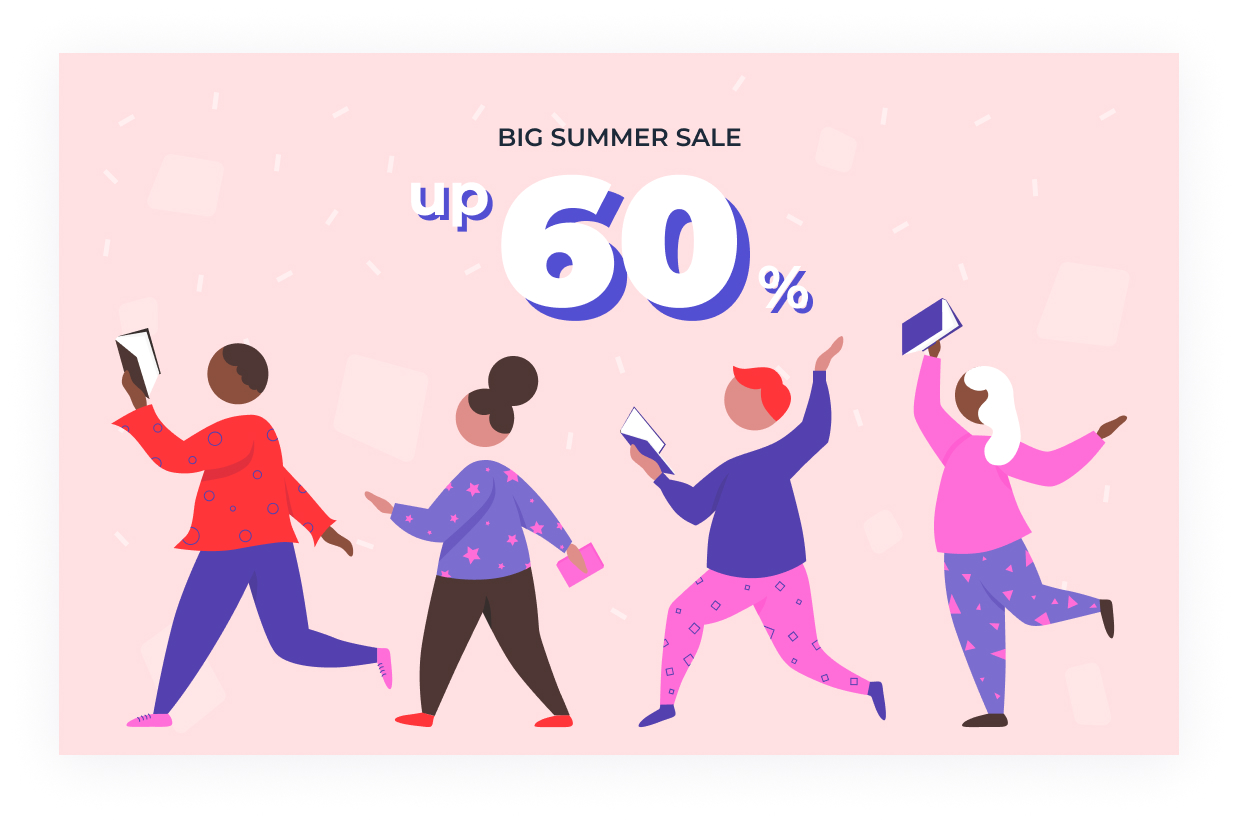
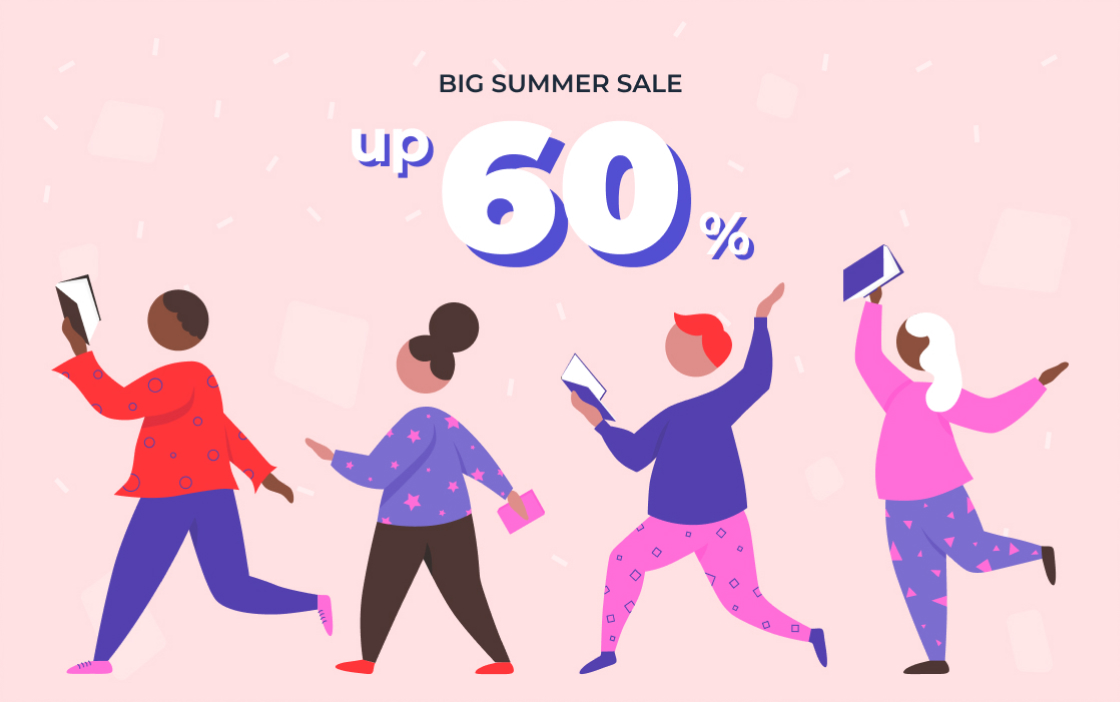
Fix hero section

diff --git a/index.html b/index.html
@@ -59,21 +59,27 @@
     <main class="hero">
       <!-- Hero container -->
       <div class="hero-container">
-        <!-- Hero image -->
-        <div class="hero-image">
-          <img src="img/banner.jpg" alt="big summer sale up to 60%" />
-        </div>
+        <div class="position">
+          <!-- Hero image -->
+          <div class="hero-image">
+            <a href="#"
+              ><img src="img/banner.jpg" alt="big summer sale up to 60%"
+            /></a>
+          </div>
 
-        <!-- Promotion card 1 -->
-        <div class="card-1">
-          <h3>Chnage old book on new</h3>
-          <img src="img/arrow.svg" alt="arrow" />
+          <!-- Promotion card 1 -->
+          <div class="card-1">
+            <a href="#"
+              ><img src="img/promo-card-1.png" alt="change old book on new"
+            /></a>
+          </div>
         </div>
 
         <!-- Promotion card 2 -->
         <div class="card-2">
-          <h3>Top 100 books 2019</h3>
-          <img src="img/arrow.svg" alt="arrow" />
+          <a href="#"
+            ><img src="img/promo-card-2.png" alt="top 100 books 2019"
+          /></a>
         </div>
       </div>
     </main>

diff --git a/css/main.css b/css/main.css
@@ -2,7 +2,6 @@
 header {
   background: #ffffff;
   height: 116px;
-  z-index: 10;
 }
 .header-container {
   display: flex;
@@ -30,11 +29,9 @@ header {
 }
 .nav-links li:first-child a {
   color: var(--primary-color);
-  font-weight: 900;
 }
 .nav-links a:hover {
   color: var(--primary-color);
-  font-weight: 900;
 }
 .nav-icons ul {
   display: flex;
@@ -50,14 +47,25 @@ header {
 
 /* Hero */
 .hero-container {
-  max-width: 1238px;
+  max-width: 1120px;
   margin: 0 auto;
 }
-.hero .hero-image {
-  margin-top: -53px;
-  z-index: -10;
-}
-.hero .hero-image img {
+.hero-image {
   width: 100%;
-  z-index: -10;
+}
+.hero-image img {
+  width: 100%;
+}
+.position {
+  position: relative;
+}
+.card-1 {
+  position: absolute;
+  top: 79px;
+  right: -100px;
+}
+.card-2 {
+  position: absolute;
+  top: 475px;
+  right: 0;
 }
